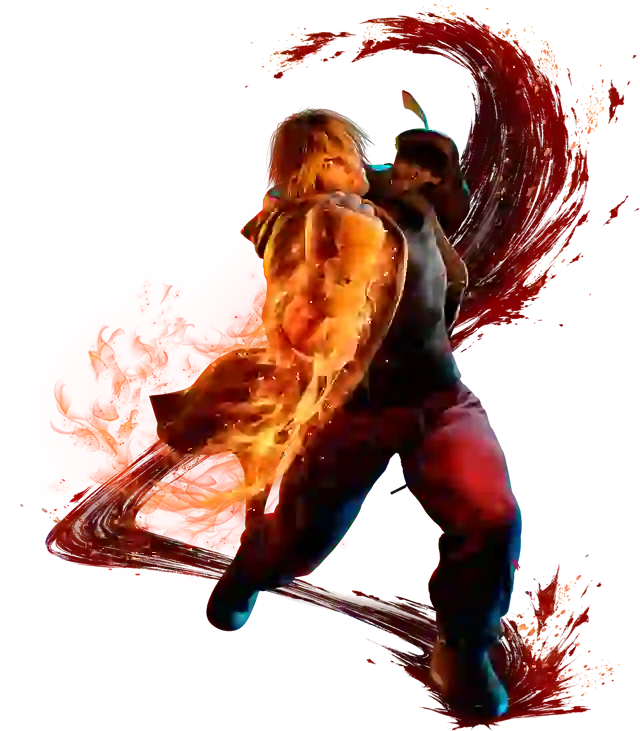
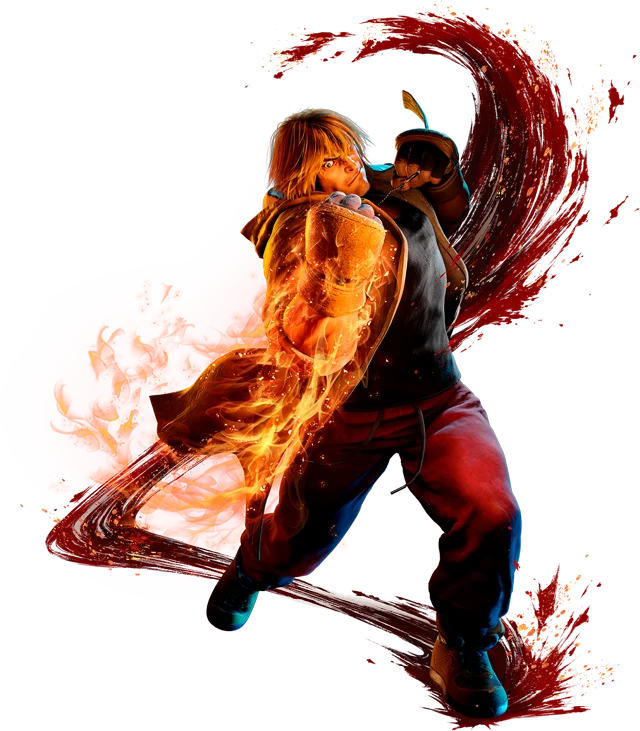
fix: preserve details in SF6 media images

diff --git a/MEDIA.md b/MEDIA.md
@@ -1,8 +1,10 @@
 # Media register
 
-FP-41 adds official Street Fighter 6 visual material requested by the owner. Original Capcom URLs and output metadata are recorded in `media-sources.json`. The three portraits and fourteen move posters/clips occupy 2,817,119 bytes combined; MP4 downloads occur only after explicit playback, and offscreen images load lazily. Source resolution is 400 x 224 for the move clips; do not describe them as HD. These byte measurements do not certify real-phone performance.
+FP-41 adds official Street Fighter 6 visual material requested by the owner. Original Capcom URLs and output metadata are recorded in `media-sources.json`. The three portraits and fourteen move posters/clips occupy 3,168,611 bytes combined; MP4 downloads occur only after explicit playback, and offscreen images load lazily. Source resolution is 400 x 224 for the move clips; do not describe them as HD. These byte measurements do not certify real-phone performance.
 
 Reviewed November 17, 2026. Character portraits and short demonstrations were obtained from Capcom's rendered official command lists through the browser asset inventory, without operating SF6. Optimized local copies avoid observed HTTP 403 failures on direct origin requests and avoid adding third-party image/video requests. No wiki GIFs, unofficial creator videos, game-process extraction or fabricated gameplay were used. The original SVG diagrams remain conceptual teaching aids, separate from actual game imagery.
+
+The final visual review caught excessive WebP loss in the initial conversion. Derivatives were regenerated with FFmpeg `-q:v 88` for move posters and `-q:v 86` for portraits, preserving native clip dimensions. Use the codec quality setting rather than the ambiguous generic `-quality` option. Poster frame timestamps, byte sizes and hashes are now recorded alongside the originals. All imagery was decoded and visually rechecked.
 
 ## Official visual catalog
 
